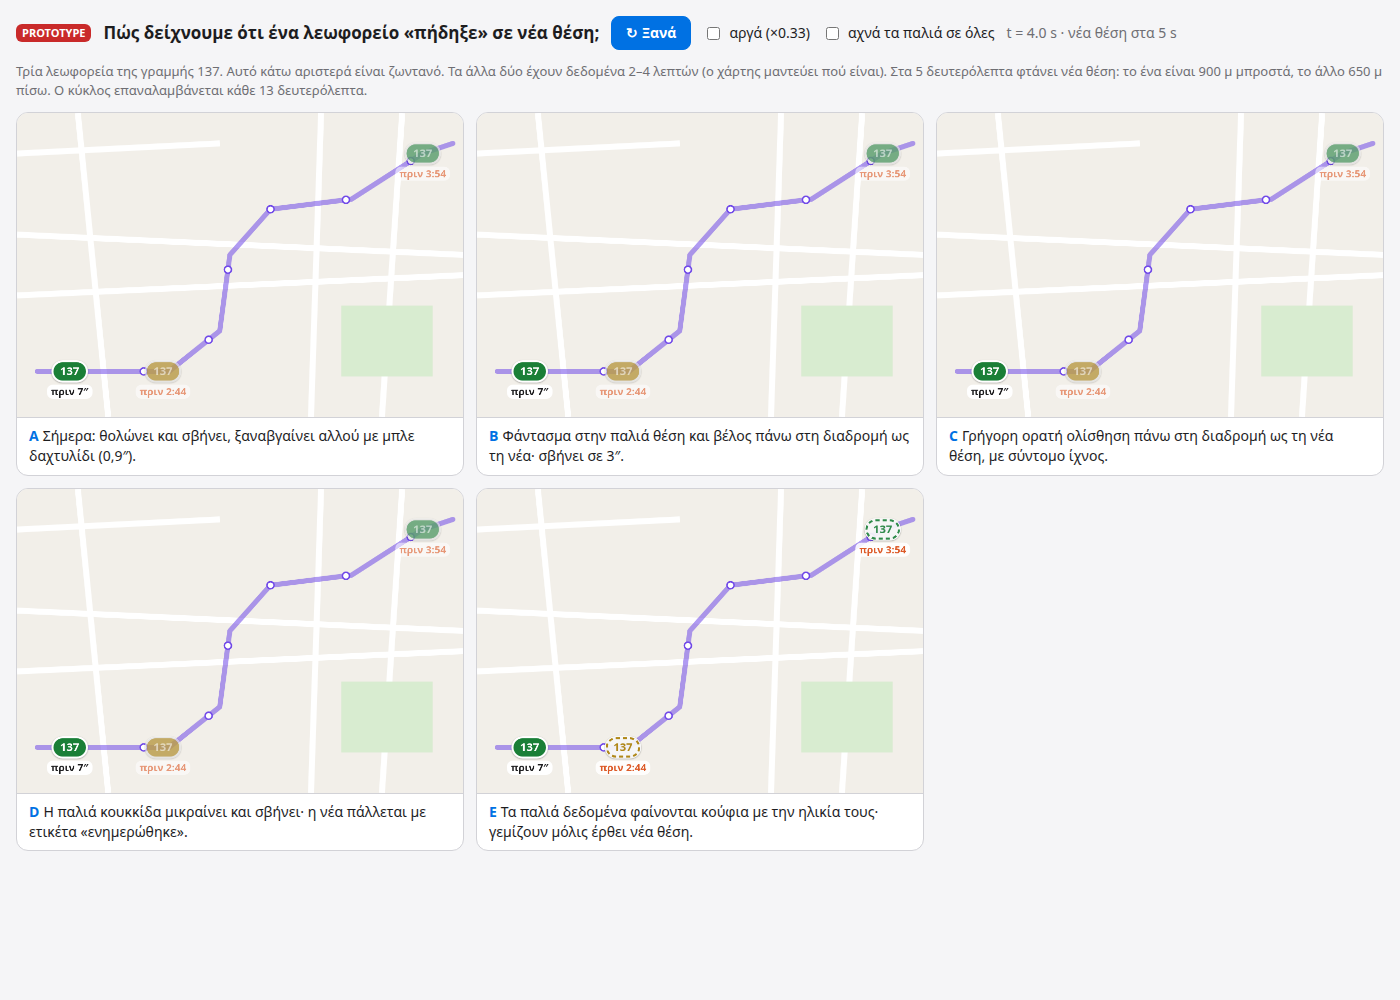
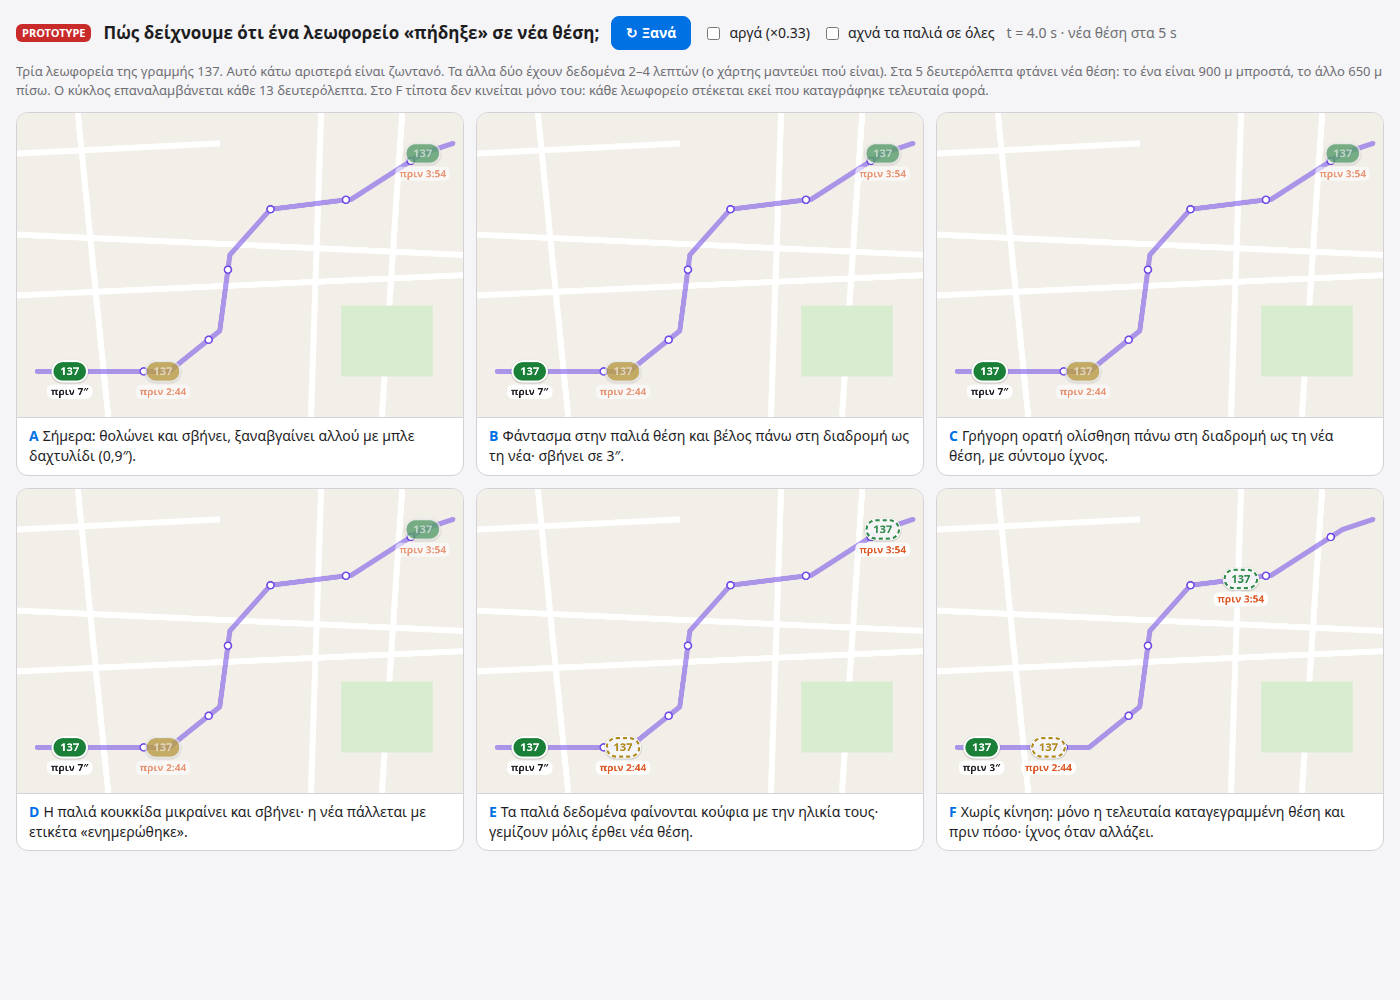
PROTOTYPE: variant F, no motion: last recorded fix and its age

diff --git a/proto/jump.js b/proto/jump.js
@@ -26,14 +26,21 @@ function seg(s1, s2) {
 // The three buses. Stale ones show a guessed (predicted) position until the fix at TJ.
 const BUSES = [
   { id: "live", s0: 0, v: 8, cls: "ontime", live: true },
-  { id: "fwd", s0: 100, v: 6, cls: "late1", age0: 160, jump: 150 },   // 900 m ahead
-  { id: "back", s0: 470, v: 6, cls: "ontime", age0: 230, jump: -110 }, // 650 m behind
+  { id: "fwd", s0: 100, v: 6, cls: "late1", age0: 160, jump: 150, raw: 90 },   // 900 m ahead
+  { id: "back", s0: 470, v: 6, cls: "ontime", age0: 230, jump: -110, raw: 380 }, // 650 m behind
 ];
 const oldS = b => b.s0 + b.v * TJ;
 const newS = (b, t) => oldS(b) + b.jump + b.v * (t - TJ);
 const shownS = (b, t) => (b.live || t < TJ ? b.s0 + b.v * t : newS(b, t));
 const age = (b, t) => (b.live ? 2 + (t * 1.3) % 9 : t < TJ ? b.age0 + t : 2 + (t - TJ));
 const fmtAge = s => (s < 60 ? `πριν ${Math.floor(s)}″` : `πριν ${Math.floor(s / 60)}:${String(Math.floor(s % 60)).padStart(2, "0")}`);
+// Without motion: the last recorded fix as it is. Live fixes every 3 s, seen 2 s late.
+const FIX_EVERY = 3;
+function lastFix(b, t) {
+  if (!b.live && t < TJ) return { s: b.raw, at: -b.age0 };
+  const t0 = b.live ? 0 : TJ, k = t0 + Math.floor((t - t0) / FIX_EVERY) * FIX_EVERY;
+  return { s: b.live ? shownS(b, k) : newS(b, k), at: k - 2 };
+}
 const clamp = x => Math.max(0, Math.min(1, x));
 const ease = x => (x < 0.5 ? 4 * x * x * x : 1 - (-2 * x + 2) ** 3 / 2);
 
@@ -204,6 +211,18 @@ const VARIANTS = [
         ageText: dt < 1.6 ? "μόλις τώρα" : fmtAge(age(b, t)), ageColor: C.ontime });
     },
   },
+  {
+    key: "F", caption: "Χωρίς κίνηση: μόνο η τελευταία καταγεγραμμένη θέση και πριν πόσο· ίχνος όταν αλλάζει.",
+    raw: true,
+    draw(g, b, t) {
+      const f = lastFix(b, t), a = t - f.at, since = t - Math.max(0, f.at + 2);
+      if (since < 1 && t >= 1) {   // a new fix arrived under a second ago: trail from the previous one
+        const prev = lastFix(b, f.at + 2 - 0.001);
+        line(g, seg(prev.s, f.s), `rgba(0,113,227,${0.55 * (1 - since)})`, 8);
+      }
+      pill(g, at(f.s), b, a > 90 ? { hollow: 1, dashed: true, alpha: 0.9, ageText: fmtAge(a), ageColor: C.late2 } : { ageText: fmtAge(a) });
+    },
+  },
 ];
 
 // ---- page wiring ----
@@ -226,7 +245,7 @@ function render(t) {
     g.setTransform(2, 0, 0, 2, 0, 0);
     background(g);
     const look = v.stale || staleAll.checked ? hollowLook : todayLook;
-    for (const b of BUSES) b.live ? pill(g, at(shownS(b, t)), b, look(b, t)) : v.draw(g, b, t, look);
+    for (const b of BUSES) b.live && !v.raw ? pill(g, at(shownS(b, t)), b, look(b, t)) : v.draw(g, b, t, look);
   }
   clock.textContent = `t = ${t.toFixed(1)} s · νέα θέση στα ${TJ} s`;
 }

diff --git a/proto/jump.html b/proto/jump.html
@@ -38,7 +38,7 @@
   <p class="legend">
     Τρία λεωφορεία της γραμμής 137. Αυτό κάτω αριστερά είναι ζωντανό. Τα άλλα δύο έχουν δεδομένα 2–4 λεπτών
     (ο χάρτης μαντεύει πού είναι). Στα 5 δευτερόλεπτα φτάνει νέα θέση: το ένα είναι 900 μ μπροστά,
-    το άλλο 650 μ πίσω. Ο κύκλος επαναλαμβάνεται κάθε 13 δευτερόλεπτα.
+    το άλλο 650 μ πίσω. Ο κύκλος επαναλαμβάνεται κάθε 13 δευτερόλεπτα. Στο F τίποτα δεν κινείται μόνο του: κάθε λεωφορείο στέκεται εκεί που καταγράφηκε τελευταία φορά.
   </p>
   <div class="grid" id="grid"></div>
   <script type="module" src="./jump.js"></script>
